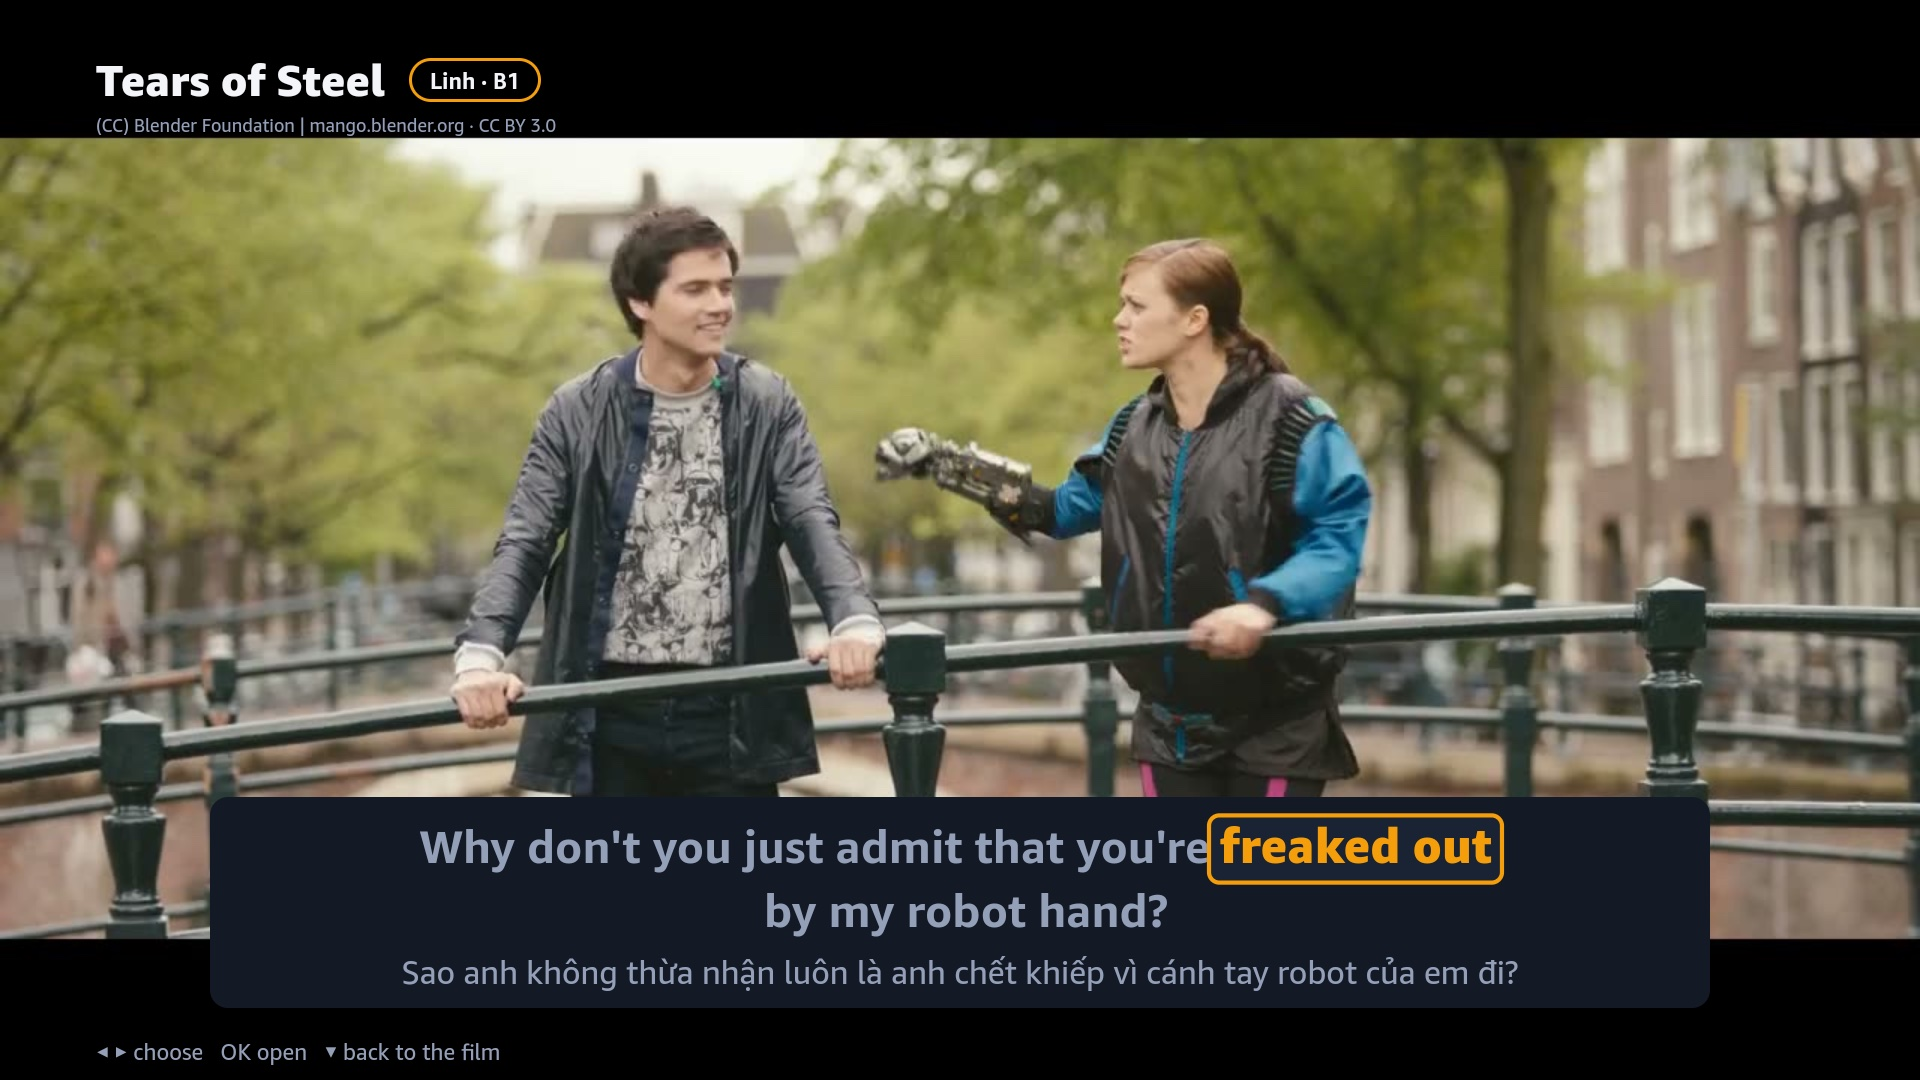
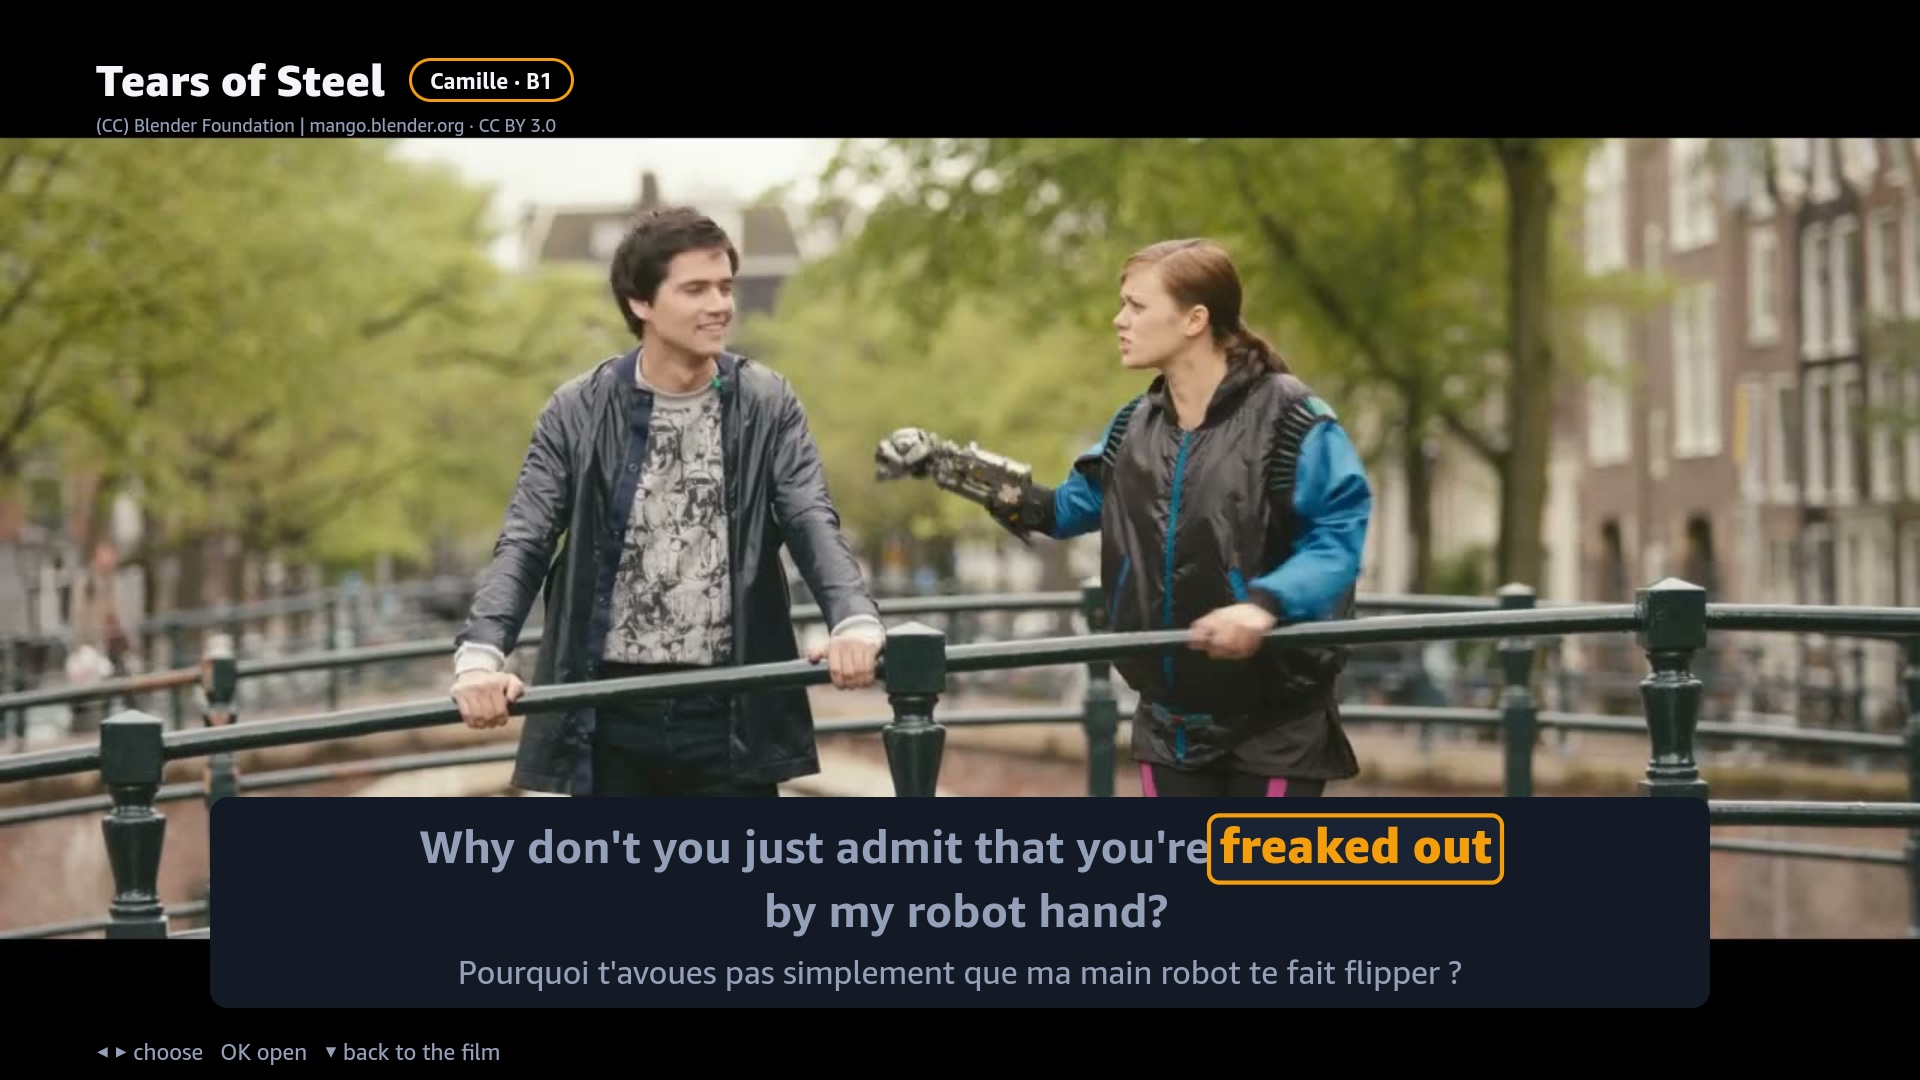
docs: show a French household and the lines you hear again
The gallery is recaptured with Camille, Hugo and Ana, so the translations on screen are French and Spanish. New shots: the TV saying a replayed line will come back, and the listening card in the Daily Rerun (gallery.mjs captures both). The library's README and images follow.

Changed region(s): [[0.2188, 0.8861, 0.7812, 0.9167], [0.2188, 0.0611, 0.3125, 0.0917]]

diff --git a/README.md b/README.md
@@ -4,8 +4,8 @@
 
 Rerun is a learning layer for Fire TV, built on Vega OS. It turns any film with a subtitle track into a lesson you
 control from the sofa: hear a line again with ◀, step into its words with ▲, and get an explanation of what a phrase
-means *in this scene*, in your own language. Words you save come back in the **Daily Rerun** — spaced-repetition
-flashcards where every card is the moment in the film where you met the word.
+means *in this scene*, in your own language. Words you save, and lines you had to hear twice, come back in the
+**Daily Rerun** — spaced-repetition flashcards where every card is a moment in the film.
 
 > Track: **Fire TV** · Mini challenge: **Open Source** · Runs on the Vega Virtual Device (Vega SDK 0.24)
 
@@ -13,25 +13,32 @@ flashcards where every card is the moment in the film where you met the word.
 
 | | |
 |---|---|
-| ![Learner subtitles on Fire TV: the line, its Vietnamese translation, and "freaked out" underlined as new for this viewer](docs/images/03-learner-subtitles.jpg) | ![The word card: what "freaked out" means in this scene, in Vietnamese, with an everyday example](docs/images/05-word-card.jpg) |
+| ![Learner subtitles on Fire TV: the line, its French translation, and "freaked out" underlined as new for this viewer](docs/images/03-learner-subtitles.jpg) | ![The word card: what "freaked out" means in this scene, in French, with an everyday example](docs/images/05-word-card.jpg) |
 | **Learner subtitles.** New-for-you words are underlined in your colour. | **Word card.** ▲ then OK: the meaning *in this scene*, in your language. |
 | ![Who's learning tonight? One profile per person in the household](docs/images/01-who-is-learning.jpg) | ![Daily Rerun: the flashcard replays the moment in the film where you met the word](docs/images/09-daily-rerun-answer.jpg) |
 | **Who's learning tonight?** Each person has a language and a level. | **Daily Rerun.** Flashcards are film moments, graded with the D-pad. |
 
-**Watching together.** Linh (B1, Vietnamese), Minh (A2, Vietnamese) and Ana (B2, Spanish) watch one film. Each person's
-new words carry their colour — "robotics" is new for Linh and Minh, "awesome" only for Minh — with a translation line
-per language, and each word card saves to each person's own deck.
+**Watching together.** Camille (B1, French), Hugo (A2, French) and Ana (B2, Spanish) watch one film. Each person's
+new words carry their colour — "robotics" is new for Camille and Hugo, "awesome" only for Hugo — with a translation
+line per language, and each word card saves to each person's own deck.
 
 | | |
 |---|---|
-| ![One film, three levels: Stretch for Linh, Hard for Minh, Easy for Ana](docs/images/11-watch-together-home.jpg) | ![Subtitles for three viewers: coloured dots per person, Vietnamese and Spanish translations](docs/images/12-watch-together-subtitles.jpg) |
+| ![One film, three levels: Stretch for Camille, Hard for Hugo, Easy for Ana](docs/images/11-watch-together-home.jpg) | ![Subtitles for three viewers: coloured dots per person, French and Spanish translations](docs/images/12-watch-together-subtitles.jpg) |
+
+**Lines you hear again come back.** Every ◀ counts. A line you needed to hear twice returns in your Daily Rerun as a
+listening card: the clip plays, the text stays hidden — *what did they say?* — until you ask for it.
+
+| | |
+|---|---|
+| ![After ◀, the TV says the line will come back in the Daily Rerun](docs/images/17-heard-again.jpg) | ![A listening card in the Daily Rerun: the clip plays and the line stays hidden](docs/images/18-listening-card.jpg) |
 
 **Phone companion.** Scan the QR code on the TV — nothing to install. Say the line back and the TV shows your score;
 a word saved on the TV is on the phone a second later.
 
 | | |
 |---|---|
-| ![Say it back: the film pauses, the phone scores every word, and the TV shows "Linh said it: 88"](docs/images/14-say-it-back.jpg) | ![A word saved on the TV appears at the top of the phone's word list](docs/images/15-saved-to-phone.jpg) |
+| ![Say it back: the film pauses, the phone scores every word, and the TV shows "Camille said it: 88"](docs/images/14-say-it-back.jpg) | ![A word saved on the TV appears at the top of the phone's word list](docs/images/15-saved-to-phone.jpg) |
 
 <sub>Screenshots from the Vega Virtual Device (Vega SDK 0.24), captured by `scripts/gallery.mjs`; phone screens from
 `scripts/phone-sim.mjs`, which pairs a phone-sized Chrome with the TV.</sub>
@@ -56,7 +63,7 @@ pause button. Watching *with* the remote is the gap.
 
 | On the remote | While watching | |
 |---|---|---|
-| **◀** | Hear the line again (twice quickly: the line before) | Built for listening practice |
+| **◀** | Hear the line again (twice quickly: the line before) | It comes back in your Daily Rerun |
 | **▶** | Jump to the next line | |
 | **▲** | **Word mode**: the film pauses and the line's learnable expressions become stops | |
 | **OK** on a word | A card: what it means here, in your language, plus an everyday example | Save it, or tell Rerun you know it |
@@ -64,15 +71,16 @@ pause button. Watching *with* the remote is the gap.
 | **☰** | Auto-pause after every line | On by default for A1–A2 |
 
 - **Who's learning tonight?** Each person in the household has a profile with their own language and level. The same
-  film underlines different words for Linh (B1, Vietnamese) and Minh (A2, Vietnamese), and the library shows how hard
-  each film is *for that person*.
+  film underlines different words for Camille (B1, French) and Hugo (A2, French), and the library shows how hard each
+  film is *for that person*.
 - **Watch together.** Pick several people: one film, everyone's own new words in their own colour, a translation line
   per language, and a save button per person. Auto-pause follows whoever finds the film hardest.
 - **Phone companion, no install.** Scan the QR code on the TV. Saved words land on the phone instantly; say the line
   on screen back to the phone and get a word-by-word score on the TV; ask "is this rude?" about any line; add family
   members (typing on a phone beats typing with a remote).
 - **Daily Rerun.** Spaced repetition on the TV: the clip plays, you recall the meaning, reveal it, and grade yourself
-  with the D-pad. Words you master stop being highlighted.
+  with the D-pad. Words you master stop being highlighted. Lines you replayed while watching come back as listening
+  cards, with the text hidden until you ask for it.
 
 ![The phone companion: a remote and speaking practice, questions about any line, and the household](docs/images/16-phone-companion.jpg)
 
@@ -82,12 +90,13 @@ Lingopie has a Fire TV app with dual subtitles and tap-a-word on its own catalog
 interactive subtitles to Netflix in a desktop browser. Rerun's take:
 
 1. **In-context explanations, not dictionary entries.** Gemini reads the whole script first, so "freaked out" is
-   explained as *Thom admitting he is scared of Celia's robot hand, half-joking* — in Vietnamese, Spanish, German, French,
-   Italian, Dutch, Polish, Portuguese or Indonesian.
+   explained as *Thom admitting he is scared of Celia's robot hand, half-joking* — in French, Spanish, German, Italian,
+   Dutch, Polish, Portuguese, Indonesian or Vietnamese.
 2. **Per-person, per-household.** Fire TV is a shared device; Rerun highlights what is new *for whoever is watching* —
    including several people at once, each in their own colour and language.
 3. **Flashcards that are film moments**, reviewed on the TV with the D-pad.
-4. **Listening and speaking**, not just reading: replay-a-line is the default key, and shadowing is scored.
+4. **Listening and speaking**, not just reading: replay-a-line is the default key, the lines you replay become
+   listening practice, and shadowing is scored.
 5. **A layer, not a catalog.** The remote-first subtitle model is an open-source library any React Native TV app can
    use (see [Open source](#open-source)).
 

diff --git a/oss/learner-subtitles/README.md b/oss/learner-subtitles/README.md
@@ -49,10 +49,10 @@ if (cmd.type === "previousLine") player.currentTime = previousLineTarget(cues, p
 <LearnerSubtitles
   cue={track.cues[index]}
   viewers={[
-    { id: "linh", name: "Linh", color: "#F59E0B", level: "B1", known: linhKnows },
-    { id: "minh", name: "Minh", color: "#38BDF8", level: "A2", known: minhKnows },
+    { id: "camille", name: "Camille", color: "#F59E0B", level: "B1", known: camilleKnows },
+    { id: "hugo", name: "Hugo", color: "#38BDF8", level: "A2", known: hugoKnows },
   ]}
-  langs={["vi"]}
+  langs={["fr"]}
   wordMode={mode === "words"}
   onSelectItem={(item) => openCard(item)}
   theme={{ fontSize: 23 }}
@@ -88,7 +88,7 @@ Learned the hard way while building Rerun (details in its
 | learning | `isNewFor`, `newForViewers`, `trackDifficulty`, `segmentLine`, `viewerLanguages`, `shouldAutoPause`, `EnrichedTrack` |
 | srs | `newCard`, `review`, `isDue`, `isMastered`, `sortForReview` |
 | shadowing | `scoreShadowing` |
-| protocol | `RoomMessage`, `parseRoomMessage`, `isPairCode` — messages for a phone companion paired by code (optional) |
+| protocol | `RoomMessage`, `parseRoomMessage`, `isPairCode` — messages for a phone companion paired by code (optional); `CardView` (a saved word, or a line to hear again) and `lineItemId` |
 | react-native | `LearnerSubtitles`, `FocusChip`, `defaultTheme`, `SubtitleTheme` |
 
 ## Develop
